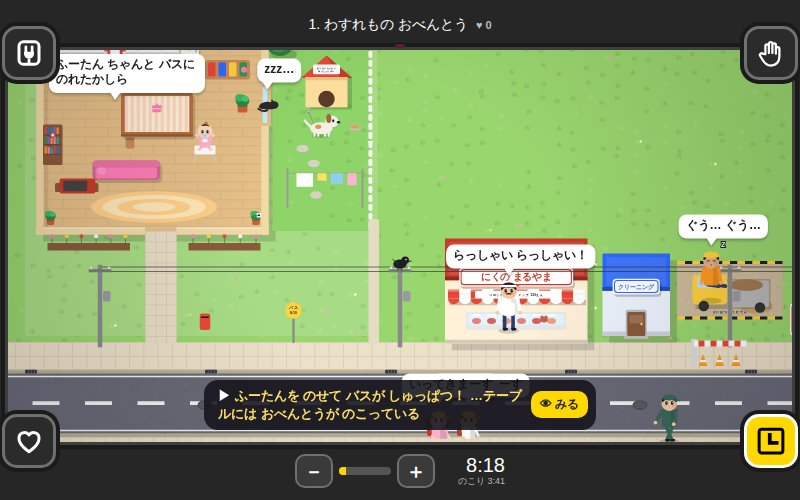
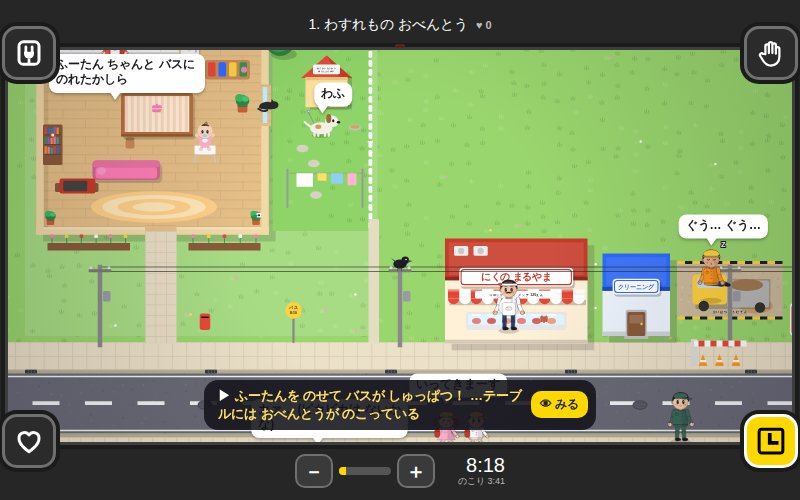
リモコロン: 人物グラフィックを描き直し（首・耳・鼻・まゆ・まつげ・大きな目、髪のボリューム、服の襟/ボタン/ポケット/帯、手と靴、前後の腕、輪郭と陰影）
Claude-Session: https://claude.ai/code/session_012ibAAMTNzg3GBPF3nzdM3h

diff --git a/futan-remocolon/index.html b/futan-remocolon/index.html
@@ -220,54 +220,115 @@ function walkerLook(i,yukata){const c=WCOL[i%7];return{h:56+(i*7)%10,skin:['#ffd
   hair:['short','long','bun','short','pig'][i%5],hairCol:['#2b1d22','#7a4a20','#a8502b','#d9d9e3'][i%4],hat:i%5===3?'hat':null,hatCol:WCOL[(i+2)%7],leg:['#1d1a24','#4a3a8a','#ffd9b8'][i%3],shoe:WCOL[(i+4)%7],bw:.28+(i%3)*.05};}
 function hasA(L,a){return L.acc&&L.acc.indexOf(a)>=0;}
 function drawPerson(e,P){
-  const L=e.look,H=L.h,kid=L.kid;
-  const legH=H*(kid?.25:.32),bodH=H*(kid?.31:.36),hr=H*(kid?.23:.17),bw=H*(L.bw||(kid?.36:.32));
-  const hipY=-legH,shY=-legH-bodH+hr*.15,hy=-legH-bodH-hr*.82;
+  const L=e.look,H=L.h,kid=!!L.kid;
+  const fem=L.fem!=null?L.fem:['long','pig','bun','bob'].includes(L.hair);
+  const hr=H*(kid?.215:.168),legH=H*(kid?.25:.35),tor=H*(kid?.29:.32),nk=H*(kid?.02:.035);
+  const bw=H*(L.bw||(kid?.34:.3));
+  const hipY=-legH,shY=hipY-tor,hy=shY-nk-hr*.86;
+  const ow=Math.max(.5,H*.012),OC='rgba(55,25,35,.38)';
+  const ol=()=>{X.lineWidth=ow;X.strokeStyle=OC;X.lineJoin='round';X.stroke();};
+  const fl=c=>{X.fillStyle=c;X.fill();ol();};
+  const E2=(x,y,rx,ry,c)=>{X.beginPath();X.ellipse(x,y,Math.max(.01,rx),Math.max(.01,ry),0,0,7);fl(c);};
+  const RB=(x,y,w,h,r,c)=>{X.beginPath();if(X.roundRect)X.roundRect(x,y,w,h,r);else X.rect(x,y,w,h);fl(c);};
+  const PL=(pts,c)=>{X.beginPath();X.moveTo(pts[0][0],pts[0][1]);for(let i=1;i<pts.length;i++)X.lineTo(pts[i][0],pts[i][1]);X.closePath();fl(c);};
+  const SM=(pts,c)=>{const n=pts.length;X.beginPath();X.moveTo((pts[n-1][0]+pts[0][0])/2,(pts[n-1][1]+pts[0][1])/2);for(let i=0;i<n;i++){const a=pts[i],b=pts[(i+1)%n];X.quadraticCurveTo(a[0],a[1],(a[0]+b[0])/2,(a[1]+b[1])/2);}X.closePath();fl(c);};
+  const LO=(x1,y1,x2,y2,c,w)=>{X.lineCap='round';X.beginPath();X.moveTo(x1,y1);X.lineTo(x2,y2);X.lineWidth=w+ow*2;X.strokeStyle=OC;X.stroke();X.beginPath();X.moveTo(x1,y1);X.lineTo(x2,y2);X.lineWidth=w;X.strokeStyle=c;X.stroke();};
+  const SHD=(top,bot,k)=>{X.save();X.clip();X.fillStyle=`rgba(40,10,40,${k||.13})`;X.fillRect(bw*.1,top-6,bw*1.2,bot-top+12);X.fillStyle='rgba(255,255,255,.14)';X.fillRect(-bw*1.2,top-6,bw*.7,bot-top+12);X.restore();};
   shadow(e.x,e.y+1,H*.22,H*.06);
   X.save();X.translate(e.x+(P.dx||0),e.y+(P.jy||0));X.rotate(P.rot||0);X.scale((e.dir||1)*(P.sx||1),1);
-  if(L.hair==='bob')ell(0,hy+hr*.1,hr*1.12,hr*1.05,L.hairCol);
-  if(L.hair==='long')blob([[-hr*1.1,hy],[-hr*1.15,hy+hr*1.6],[hr*1.15,hy+hr*1.6],[hr*1.1,hy],[0,hy-hr*1.1]],L.hairCol);
-  if(L.hair==='pig'){ell(-hr*1.15,hy+hr*.2,hr*.42,hr*.6,L.hairCol);ell(hr*1.15,hy+hr*.2,hr*.42,hr*.6,L.hairCol);}
-  const la=P.legA||0,lx=bw*.22;
-  if(P.sit){limb(-lx,hipY,-lx+legH*.7,hipY+2,L.leg,H*.075);limb(lx,hipY,lx+legH*.7,hipY+2,L.leg,H*.075);}
-  else{const f1=-lx+Math.sin(la)*legH,f2=lx-Math.sin(la)*legH;limb(-lx,hipY,f1,-H*.02,L.leg,H*.075);limb(lx,hipY,f2,-H*.02,L.leg,H*.075);
-    ell(f1+H*.02,-H*.018,H*.055,H*.03,L.shoe);ell(f2+H*.02,-H*.018,H*.055,H*.03,L.shoe);}
-  const top=-legH-bodH,bot=hipY+H*.02;
-  if(hasA(L,'rando'))rbox(-bw*.9,top+1,bw*.5,bodH*.75,3,'#c83a2a');
-  const shd=()=>{X.save();X.clip();X.fillStyle='rgba(0,0,0,.11)';X.fillRect(bw*.12,top-4,bw,bot-top+8);X.fillStyle='rgba(255,255,255,.12)';X.fillRect(-bw,top-4,bw*.75,4);X.restore();};
-  if(L.shape==='smock'){poly([[-bw*.42,top],[bw*.42,top],[bw*.62,bot],[-bw*.62,bot]],L.body);shd();blob([[-bw*.36,top-1],[0,top+bodH*.32],[bw*.36,top-1],[0,top+bodH*.08]],'#fff');}
-  else if(L.shape==='tri'){poly([[-bw*.3,top],[bw*.3,top],[bw*.7,bot],[-bw*.7,bot]],L.body);shd();}
-  else if(L.shape==='box'){rbox(-bw*.5,top,bw,bot-top,bw*.15,L.body);shd();}
-  else if(L.shape==='yukata'){poly([[-bw*.45,top],[bw*.45,top],[bw*.55,-H*.04],[-bw*.55,-H*.04]],L.body);shd();
-    for(let i=0;i<3;i++)ell(-bw*.2+i*bw*.22,top+bodH*.6+(i%2)*legH*.4,bw*.08,bw*.08,L.pat||'#fff');box(-bw*.48,top+bodH*.32,bw*.96,bodH*.2,L.obi||COL.yel);}
-  else if(L.shape==='happi'){rbox(-bw*.5,top,bw,bot-top,bw*.1,L.body);shd();box(-bw*.5,top+bodH*.55,bw,bodH*.15,'#fff');}
-  else{blob([[-bw*.45,top+2],[0,top-2],[bw*.45,top+2],[bw*.55,bot-3],[0,bot+2],[-bw*.55,bot-3]],L.body);shd();}
-  if(hasA(L,'apron'))rbox(-bw*.32,top+bodH*.3,bw*.64,bodH*.75,bw*.1,'#fff');
-  if(hasA(L,'tie'))poly([[0,top+1],[bw*.08,top+bodH*.45],[0,top+bodH*.6],[-bw*.08,top+bodH*.45]],COL.red);
-  if(P.baby){X.save();X.translate(0,top+bodH*.6);X.scale(.42,.42);drawBabyBody(P.babyMood||'n',e.t,1);X.restore();}
-  const sx=bw*.46,al=H*(kid?.27:.3);
-  const arm=(side,a,hand)=>{let hx,hy2;if(hand){hx=hand[0];hy2=hand[1];}else{hx=side*sx+Math.sin(a)*al*side;hy2=shY+Math.cos(a)*al;}
-    limb(side*sx,shY,hx,hy2,L.sleeve||L.body,H*.075);ell(hx,hy2,H*.042,H*.042,L.skin);};
-  arm(-1,P.aL==null?.18:P.aL,P.hL);arm(1,P.aR==null?.18:P.aR,P.hR);
-  ell(0,hy,hr,hr*1.02,L.skin);X.save();X.clip();X.fillStyle='rgba(150,60,40,.08)';X.fillRect(hr*.35,hy-hr*1.2,hr,hr*2.4);X.restore();
-  face(0,hy,hr,P.mood||'n',e.t+(e.seed||0));
-  const hc=L.hairCol;
-  if(L.hair==='bob'){blob([[-hr*1.05,hy+hr*.15],[-hr*.95,hy-hr*.75],[0,hy-hr*1.08],[hr*.95,hy-hr*.75],[hr*1.05,hy+hr*.15],[hr*.8,hy-hr*.3],[0,hy-hr*.42],[-hr*.8,hy-hr*.3]],hc);
-    dot(-hr*.85,hy-hr*.62,hr*.1,COL.red);dot(hr*.85,hy-hr*.62,hr*.1,COL.red);X.globalAlpha=.22;crv([[-hr*.55,hy-hr*.72],[-hr*.1,hy-hr*.93],[hr*.35,hy-hr*.82]],hr*.13,'#fff');X.globalAlpha=1;}
-  else if(L.hair==='bald'){ell(-hr*.92,hy-hr*.1,hr*.2,hr*.32,hc);ell(hr*.92,hy-hr*.1,hr*.2,hr*.32,hc);}
-  else if(L.hair==='bun'){blob([[-hr,hy-hr*.05],[-hr*.8,hy-hr*.8],[0,hy-hr*1.05],[hr*.8,hy-hr*.8],[hr,hy-hr*.05],[hr*.6,hy-hr*.5],[-hr*.6,hy-hr*.5]],hc);ell(0,hy-hr*1.2,hr*.38,hr*.32,hc);}
-  else if(L.hair){blob([[-hr*1.02,hy+hr*.1],[-hr*.85,hy-hr*.8],[0,hy-hr*1.08],[hr*.85,hy-hr*.8],[hr*1.02,hy+hr*.1],[hr*.5,hy-hr*.45],[0,hy-hr*.3],[-hr*.5,hy-hr*.45]],hc);}
-  if(L.hat==='yochien'){const c=L.hatCol;ell(0,hy-hr*.62,hr*1.3,hr*.26,c);blob([[-hr*.85,hy-hr*.6],[-hr*.7,hy-hr*1.15],[0,hy-hr*1.32],[hr*.7,hy-hr*1.15],[hr*.85,hy-hr*.6]],c);}
-  else if(L.hat==='cap'||L.hat==='police'){blob([[-hr*.95,hy-hr*.35],[-hr*.8,hy-hr*.95],[0,hy-hr*1.12],[hr*.8,hy-hr*.95],[hr*.95,hy-hr*.35]],L.hatCol);poly([[hr*.4,hy-hr*.45],[hr*1.45,hy-hr*.38],[hr*1.4,hy-hr*.22],[hr*.4,hy-hr*.3]],L.hat==='police'?INK:L.hatCol);if(L.hat==='police')star(0,hy-hr*.75,hr*.22,COL.yel);}
-  else if(L.hat==='hachi'){box(-hr*1.02,hy-hr*.7,hr*2.04,hr*.28,'#fff');ell(hr*1.1,hy-hr*.62,hr*.2,hr*.14,COL.red);}
-  else if(L.hat==='hat'){ell(0,hy-hr*.7,hr*1.35,hr*.22,L.hatCol);box(-hr*.7,hy-hr*1.4,hr*1.4,hr*.7,L.hatCol);}
-  else if(L.hat==='helmet'){blob([[-hr*1.05,hy-hr*.3],[-hr*.9,hy-hr*.95],[0,hy-hr*1.18],[hr*.9,hy-hr*.95],[hr*1.05,hy-hr*.3]],L.hatCol);}
-  else if(L.hat==='santa'){poly([[-hr*1.02,hy-hr*.52],[hr*1.02,hy-hr*.52],[hr*.25,hy-hr*1.75]],'#d82a2a');box(-hr*1.06,hy-hr*.72,hr*2.12,hr*.32,'#fff');dot(hr*.3,hy-hr*1.78,hr*.24,'#fff');}
-  else if(L.hat==='chef'){box(-hr*.75,hy-hr*.95,hr*1.5,hr*.35,'#fff');ell(-hr*.4,hy-hr*1.25,hr*.45,hr*.4,'#fff');ell(hr*.4,hy-hr*1.25,hr*.45,hr*.4,'#fff');ell(0,hy-hr*1.45,hr*.5,hr*.42,'#fff');}
-  if(hasA(L,'flower')){for(let i=0;i<5;i++){const a=i/5*6.28;ell(hr*.75+Math.cos(a)*hr*.2,hy-hr*.7+Math.sin(a)*hr*.2,hr*.15,hr*.15,COL.pink);}dot(hr*.75,hy-hr*.7,hr*.1,COL.yel);}
-  if(hasA(L,'mustache'))blob([[-hr*.45,hy+hr*.38],[0,hy+hr*.25],[hr*.45,hy+hr*.38],[hr*.2,hy+hr*.49],[0,hy+hr*.41],[-hr*.2,hy+hr*.49]],L.hair==='bald'?'#fff':INK);
-  if(hasA(L,'beard'))blob([[-hr*.95,hy+hr*.05],[0,hy+hr*.32],[hr*.95,hy+hr*.05],[hr*.7,hy+hr*1.05],[0,hy+hr*1.4],[-hr*.7,hy+hr*1.05]],'#fff');
-  if(hasA(L,'glasses')){X.lineWidth=hr*.07;X.strokeStyle=INK;X.strokeRect(-hr*.62,hy-hr*.2,hr*.5,hr*.38);X.strokeRect(hr*.12,hy-hr*.2,hr*.5,hr*.38);}
+  const hc=L.hairCol||'#2b1d22',sk=L.skin,skD=shade(sk,-.12),body=L.body,sl=L.sleeve||body;
+  // ---- うしろ がみ ----
+  if(L.hair==='bob')SM([[-hr*1.12,hy+hr*.55],[-hr*1.2,hy-hr*.3],[-hr*.7,hy-hr*1.12],[hr*.7,hy-hr*1.12],[hr*1.2,hy-hr*.3],[hr*1.12,hy+hr*.55],[0,hy+hr*.7]],hc);
+  if(L.hair==='long')SM([[-hr*1.12,hy-hr*.2],[-hr*1.25,hy+hr*1.1],[-hr*.9,hy+hr*1.9],[hr*.9,hy+hr*1.9],[hr*1.25,hy+hr*1.1],[hr*1.12,hy-hr*.2],[0,hy-hr*1.15]],hc);
+  if(L.hair==='pig'){for(const s of[-1,1]){SM([[s*hr*.95,hy-hr*.35],[s*hr*1.6,hy-hr*.15],[s*hr*1.7,hy+hr*.6],[s*hr*1.3,hy+hr*.9],[s*hr*1.05,hy+hr*.3]],hc);E2(s*hr*1.02,hy-hr*.3,hr*.13,hr*.13,COL.red);}}
+  if(L.hair==='bun')E2(0,hy-hr*1.15,hr*.42,hr*.36,hc);
+  // ---- うしろの うで ----
+  const sx=bw*.48,al=H*(kid?.27:.31),shoY=shY+hr*.12;
+  const arm=(side,a,hand)=>{const ax=side*sx;let ex,ey,hx,hy2;if(hand){hx=hand[0];hy2=hand[1];ex=(ax+hx)/2+side*al*.08;ey=(shoY+hy2)/2+al*.06;}
+      else{ex=ax+Math.sin(a)*al*.5*side;ey=shoY+Math.cos(a)*al*.5;const b=a+(a>1.2?-.15:.25);hx=ex+Math.sin(b)*al*.5*side;hy2=ey+Math.cos(b)*al*.5;}
+    const aw=H*(kid?.075:.068);LO(ax,shoY,ex,ey,sl,aw);LO(ex,ey,hx,hy2,L.short?sk:sl,aw*.92);if(!L.short){E2(hx-(hx-ex)*.12,hy2-(hy2-ey)*.12,aw*.5,aw*.42,shade(sl,-.1));}
+    E2(hx,hy2,H*.042,H*.04,sk);E2(hx+side*H*.03,hy2-H*.012,H*.016,H*.022,sk);};
+  arm(-1,P.aL==null?.18:P.aL,P.hL);
+  // ---- あし ----
+  const la=P.legA||0,lx=bw*.22,lw=H*(kid?.09:.08);const skirt=['tri','smock','yukata'].includes(L.shape);
+  const legC=L.leg||(skirt?sk:'#3a3a5a');
+  const foot=(fx,fy)=>{E2(fx+H*.025,fy-H*.012,H*.06,H*.032,L.shoe||INK);X.fillStyle='rgba(0,0,0,.25)';X.fillRect(fx-H*.03,fy+H*.008,H*.11,H*.012);};
+  if(P.sit){for(const s of[-1,1]){const hx=s*lx;LO(hx,hipY,hx+legH*.7,hipY+1,legC,lw);foot(hx+legH*.72,hipY+3);}}
+  else{for(const s of[-1,1]){const hx=s*lx,ang=s<0?la:-la,fx=hx+Math.sin(ang)*legH,kx=hx+Math.sin(ang)*legH*.5+(Math.abs(ang)>.1?H*.01:0);LO(hx,hipY,kx,hipY+legH*.5,legC,lw);LO(kx,hipY+legH*.5,fx,-H*.035,legC,lw*.88);
+      if(!skirt&&!L.short)E2(fx,-H*.05,lw*.55,lw*.3,shade(legC,-.12));foot(fx,-H*.02);}}
+  // ---- からだ ----
+  const top=shY,bot=hipY+H*.02;
+  if(L.shape==='smock'){PL([[-bw*.44,top],[bw*.44,top],[bw*.66,bot+H*.02],[-bw*.66,bot+H*.02]],body);SHD(top,bot);
+    SM([[-bw*.4,top-1],[-bw*.1,top+tor*.32],[0,top+tor*.2],[bw*.1,top+tor*.32],[bw*.4,top-1],[0,top+tor*.06]],'#fff');RB(-bw*.38,top+tor*.55,bw*.3,tor*.28,2,shade(body,.18));
+    if(hasA(L,'tag')||!hasA(L,'rando'))E2(bw*.22,top+tor*.42,bw*.09,bw*.09,'#ff7eb6');}
+  else if(L.shape==='tri'){PL([[-bw*.36,top],[bw*.36,top],[bw*.4,top+tor*.42],[bw*.74,bot+H*.03],[-bw*.74,bot+H*.03],[-bw*.4,top+tor*.42]],body);SHD(top,bot);
+    X.fillStyle=shade(body,-.15);X.fillRect(-bw*.4,top+tor*.4,bw*.8,tor*.07);for(let i=-2;i<=2;i++){X.fillStyle='rgba(0,0,0,.07)';X.fillRect(i*bw*.2,top+tor*.5,ow*1.2,tor*.55);}
+    if(fem)SM([[-bw*.22,top],[0,top+tor*.16],[bw*.22,top],[0,top+tor*.05]],shade(body,.25));}
+  else if(L.shape==='yukata'){PL([[-bw*.46,top],[bw*.46,top],[bw*.56,-H*.04],[-bw*.56,-H*.04]],body);SHD(top,-H*.04);
+    for(let i=0;i<6;i++)E2(-bw*.3+(i%3)*bw*.3,top+tor*.6+Math.floor(i/3)*legH*.45+(i%2)*4,bw*.09,bw*.09,L.pat||'#fff');
+    PL([[-bw*.3,top],[bw*.05,top+tor*.42],[-bw*.05,top+tor*.42],[-bw*.36,top+2]],'#fff');PL([[bw*.3,top],[-bw*.02,top+tor*.4],[bw*.1,top+tor*.42],[bw*.36,top+2]],shade(body,.1));
+    RB(-bw*.5,top+tor*.4,bw,tor*.22,2,L.obi||COL.yel);E2(-bw*.55,top+tor*.5,bw*.18,bw*.13,shade(L.obi||COL.yel,-.1));}
+  else if(L.shape==='happi'){RB(-bw*.52,top,bw*1.04,bot-top+H*.04,bw*.1,body);SHD(top,bot);X.fillStyle='#fff';X.fillRect(-bw*.14,top,bw*.08,bot-top);X.fillRect(bw*.06,top,bw*.08,bot-top);RB(-bw*.52,top+tor*.62,bw*1.04,tor*.14,1,'#fff');
+    for(let i=0;i<3;i++)E2(-bw*.34,top+tor*.15+i*tor*.16,bw*.04,bw*.04,'#fff');}
+  else if(L.shape==='box'){RB(-bw*.52,top,bw*1.04,bot-top+H*.02,bw*.18,body);SHD(top,bot);
+    if(hasA(L,'tie')){PL([[-bw*.2,top],[bw*.2,top],[0,top+tor*.42]],'#fff');PL([[0,top+tor*.06],[bw*.07,top+tor*.14],[bw*.05,top+tor*.55],[0,top+tor*.66],[-bw*.05,top+tor*.55],[-bw*.07,top+tor*.14]],COL.red);
+      PL([[-bw*.22,top],[-bw*.02,top+tor*.45],[-bw*.12,top+tor*.47],[-bw*.3,top+1]],shade(body,.12));PL([[bw*.22,top],[bw*.02,top+tor*.45],[bw*.12,top+tor*.47],[bw*.3,top+1]],shade(body,.12));}
+    else{SM([[-bw*.26,top],[0,top+tor*.12],[bw*.26,top],[0,top+tor*.02]],shade(body,-.12));for(let i=0;i<3;i++)E2(0,top+tor*.25+i*tor*.22,bw*.035,bw*.035,shade(body,.35));}
+    RB(-bw*.38,top+tor*.22,bw*.22,tor*.16,1.5,shade(body,-.06));X.fillStyle='rgba(0,0,0,.25)';X.fillRect(-bw*.52,bot-H*.035,bw*1.04,H*.025);}
+  else{SM([[-bw*.46,top+2],[0,top-2],[bw*.46,top+2],[bw*.56,bot-3],[0,bot+3],[-bw*.56,bot-3]],body);SHD(top,bot);
+    X.fillStyle=shade(body,-.15);X.fillRect(-bw*.5,bot-H*.04,bw,H*.03);SM([[-bw*.24,top],[0,top+tor*.1],[bw*.24,top],[0,top+tor*.03]],shade(body,-.2));}
+  if(hasA(L,'rando')){RB(-bw*.95,top+2,bw*.42,tor*.8,3,'#c83a2a');X.fillStyle='rgba(0,0,0,.2)';X.fillRect(-bw*.95,top+tor*.3,bw*.42,2);}
+  if(hasA(L,'apron')){RB(-bw*.34,top+tor*.3,bw*.68,tor*.85,bw*.1,'#fff');RB(-bw*.16,top+tor*.6,bw*.32,tor*.2,2,'#f0f0f0');X.fillStyle='#fff';X.fillRect(-bw*.3,top,bw*.08,tor*.32);X.fillRect(bw*.22,top,bw*.08,tor*.32);}
+  if(P.baby){X.save();X.translate(0,top+tor*.62);X.scale(H/150,H/150);drawBabyBody(P.babyMood||'n',e.t,1);X.restore();}
+  // ---- まえの うで ----
+  arm(1,P.aR==null?.18:P.aR,P.hR);
+  // ---- くび・あたま ----
+  RB(-hr*.22,shY-nk-hr*.25,hr*.44,nk+hr*.3,hr*.1,skD);
+  E2(-hr*.98,hy+hr*.1,hr*.18,hr*.24,sk);E2(-hr*.98,hy+hr*.1,hr*.09,hr*.13,skD);
+  E2(0,hy,hr,hr*1.02,sk);X.save();X.clip();X.fillStyle='rgba(150,60,40,.09)';X.fillRect(hr*.35,hy-hr*1.2,hr,hr*2.4);X.fillStyle='rgba(255,255,255,.12)';X.fillRect(-hr,hy-hr*1.2,hr*.45,hr*2.4);X.restore();
+  // かお
+  const mood=P.mood||'n',t=e.t+(e.seed||0),ex=hr*.36,ey=hy+hr*.06,ew=hr*.15,eh=hr*.25,blink=(t%3.7)<.12;
+  X.lineCap='round';
+  const arc=(pts,w,c)=>{X.beginPath();X.moveTo(pts[0][0],pts[0][1]);X.quadraticCurveTo(pts[1][0],pts[1][1],pts[2][0],pts[2][1]);X.lineWidth=w;X.strokeStyle=c||INK;X.stroke();};
+  if(mood==='happy'){for(const s of[-1,1])arc([[s*ex-ew*1.1,ey+eh*.25],[s*ex,ey-eh*.75],[s*ex+ew*1.1,ey+eh*.25]],hr*.1);}
+  else if(mood==='cry'){for(const s of[-1,1])arc([[s*ex-s*ew*1.1,ey-eh*.5],[s*ex+s*ew*1.1,ey],[s*ex-s*ew*1.1,ey+eh*.5]],hr*.1);}
+  else if(mood==='sleep'){for(const s of[-1,1])arc([[s*ex-ew,ey],[s*ex,ey+eh*.45],[s*ex+ew,ey]],hr*.09);}
+  else if(blink){for(const s of[-1,1]){X.beginPath();X.moveTo(s*ex-ew,ey);X.lineTo(s*ex+ew,ey);X.lineWidth=hr*.09;X.strokeStyle=INK;X.stroke();}}
+  else{const k=(mood==='surp'||mood==='angry')?1.15:1;for(const s of[-1,1]){X.beginPath();X.ellipse(s*ex,ey,ew*k,eh*k,0,0,7);X.fillStyle=INK;X.fill();dot(s*ex+ew*.3,ey-eh*.38,ew*.42,'#fff');dot(s*ex-ew*.35,ey+eh*.35,ew*.18,'#fff');
+      if(fem){X.beginPath();X.moveTo(s*ex+s*ew*.7,ey-eh*.75);X.lineTo(s*ex+s*ew*1.35,ey-eh*1.05);X.lineWidth=hr*.06;X.strokeStyle=INK;X.stroke();}}}
+  const bc=L.hair==='bald'?'#888':hc;
+  if(mood==='sad'||mood==='cry'){for(const s of[-1,1])arc([[s*ex-s*ew*1.3,ey-eh*1.45],[s*ex,ey-eh*1.7],[s*ex+s*ew*1.1,ey-eh*2.05]],hr*.07,bc);}
+  else if(mood==='angry'){for(const s of[-1,1])arc([[s*ex+s*ew*1.3,ey-eh*2.05],[s*ex,ey-eh*1.75],[s*ex-s*ew*1.1,ey-eh*1.35]],hr*.08,bc);}
+  else{for(const s of[-1,1])arc([[s*ex-ew*1.1,ey-eh*1.55],[s*ex,ey-eh*1.85],[s*ex+ew*1.1,ey-eh*1.55]],hr*.06,bc);}
+  X.globalAlpha=.42;E2(-ex*1.45,ey+hr*.34,hr*.15,hr*.09,'#ff7a90');E2(ex*1.45,ey+hr*.34,hr*.15,hr*.09,'#ff7a90');X.globalAlpha=1;
+  X.beginPath();X.ellipse(hr*.06,ey+hr*.28,hr*.07,hr*.05,0,0,7);X.fillStyle=shade(sk,-.2);X.fill();
+  const my=hy+hr*.56;const lip=fem?'#e0506a':'#c84a5a';
+  if(mood==='happy'){X.beginPath();X.moveTo(-hr*.2,my-hr*.03);X.quadraticCurveTo(0,my+hr*.3,hr*.2,my-hr*.03);X.closePath();X.fillStyle='#b82a40';X.fill();X.beginPath();X.ellipse(0,my+hr*.1,hr*.08,hr*.05,0,0,7);X.fillStyle='#ff8a9a';X.fill();}
+  else if(mood==='cry'){X.beginPath();X.ellipse(0,my+hr*.04,hr*.16,hr*.13,0,0,7);X.fillStyle='#a82038';X.fill();for(const s of[-1,1]){const k=(t*1.6+(s>0?.5:0))%1;E2(s*ex,ey+eh+k*hr*.75,hr*.06,hr*.09,'#7cd0ff');}}
+  else if(mood==='sad')arc([[-hr*.12,my+hr*.05],[0,my-hr*.05],[hr*.12,my+hr*.05]],hr*.06,lip);
+  else if(mood==='surp'||mood==='sleep'){X.beginPath();X.ellipse(0,my+hr*.03,hr*.07,hr*.09,0,0,7);X.fillStyle='#a82038';X.fill();}
+  else if(mood==='angry'){X.beginPath();X.moveTo(-hr*.14,my+hr*.04);X.lineTo(hr*.14,my+hr*.04);X.lineWidth=hr*.07;X.strokeStyle=lip;X.stroke();}
+  else arc([[-hr*.12,my],[0,my+hr*.09],[hr*.12,my]],hr*.065,lip);
+  // まえがみ
+  if(L.hair==='bob'){SM([[-hr*1.08,hy+hr*.25],[-hr*1.0,hy-hr*.75],[-hr*.4,hy-hr*1.1],[hr*.4,hy-hr*1.1],[hr*1.0,hy-hr*.75],[hr*1.08,hy+hr*.25],[hr*.85,hy-hr*.32],[hr*.3,hy-hr*.4],[0,hy-hr*.36],[-hr*.3,hy-hr*.4],[-hr*.85,hy-hr*.32]],hc);
+    E2(-hr*.86,hy-hr*.6,hr*.1,hr*.1,COL.red);E2(hr*.86,hy-hr*.6,hr*.1,hr*.1,COL.red);}
+  else if(L.hair==='long'||L.hair==='pig'){SM([[-hr*1.06,hy+hr*.3],[-hr*.95,hy-hr*.8],[-hr*.3,hy-hr*1.12],[hr*.3,hy-hr*1.12],[hr*.95,hy-hr*.8],[hr*1.06,hy+hr*.3],[hr*.8,hy-hr*.2],[hr*.2,hy-hr*.55],[0,hy-hr*.75],[-hr*.2,hy-hr*.55],[-hr*.8,hy-hr*.2]],hc);}
+  else if(L.hair==='bun'){SM([[-hr*1.02,hy+hr*.05],[-hr*.9,hy-hr*.8],[0,hy-hr*1.08],[hr*.9,hy-hr*.8],[hr*1.02,hy+hr*.05],[hr*.7,hy-hr*.45],[0,hy-hr*.62],[-hr*.7,hy-hr*.45]],hc);}
+  else if(L.hair==='bald'){SM([[-hr*1.04,hy+hr*.25],[-hr*.98,hy-hr*.35],[-hr*.7,hy-hr*.2],[-hr*.78,hy+hr*.3]],hc);SM([[hr*1.04,hy+hr*.25],[hr*.98,hy-hr*.35],[hr*.7,hy-hr*.2],[hr*.78,hy+hr*.3]],hc);X.globalAlpha=.3;E2(-hr*.3,hy-hr*.6,hr*.25,hr*.15,'#fff');X.globalAlpha=1;}
+  else if(L.hair){SM([[-hr*1.05,hy+hr*.1],[-hr*1.02,hy-hr*.6],[-hr*.6,hy-hr*1.12],[hr*.2,hy-hr*1.2],[hr*.9,hy-hr*.95],[hr*1.08,hy-hr*.3],[hr*1.04,hy+hr*.1],[hr*.88,hy-hr*.38],[hr*.55,hy-hr*.5],[hr*.25,hy-hr*.38],[-hr*.2,hy-hr*.55],[-hr*.6,hy-hr*.42],[-hr*.88,hy-hr*.3]],hc);}
+  if(L.hair&&L.hair!=='bald'){X.globalAlpha=.28;arc([[-hr*.55,hy-hr*.78],[-hr*.1,hy-hr*.98],[hr*.4,hy-hr*.85]],hr*.12,'#fff');X.globalAlpha=1;}
+  // ぼうし
+  if(L.hat==='yochien'){const c=L.hatCol;E2(0,hy-hr*.6,hr*1.35,hr*.28,c);SM([[-hr*.88,hy-hr*.6],[-hr*.74,hy-hr*1.18],[0,hy-hr*1.36],[hr*.74,hy-hr*1.18],[hr*.88,hy-hr*.6]],c);X.fillStyle=shade(c,-.2);X.fillRect(-hr*.86,hy-hr*.78,hr*1.72,hr*.1);}
+  else if(L.hat==='cap'||L.hat==='police'){SM([[-hr*.98,hy-hr*.38],[-hr*.84,hy-hr*.98],[0,hy-hr*1.16],[hr*.84,hy-hr*.98],[hr*.98,hy-hr*.38]],L.hatCol);PL([[hr*.35,hy-hr*.48],[hr*1.5,hy-hr*.4],[hr*1.42,hy-hr*.24],[hr*.35,hy-hr*.32]],L.hat==='police'?INK:shade(L.hatCol,-.15));if(L.hat==='police')star(0,hy-hr*.78,hr*.22,COL.yel);else E2(0,hy-hr*1.14,hr*.1,hr*.06,shade(L.hatCol,-.2));}
+  else if(L.hat==='hachi'){RB(-hr*1.04,hy-hr*.72,hr*2.08,hr*.3,hr*.1,'#fff');E2(-hr*1.1,hy-hr*.62,hr*.22,hr*.15,COL.red);}
+  else if(L.hat==='hat'){E2(0,hy-hr*.72,hr*1.4,hr*.24,L.hatCol);RB(-hr*.72,hy-hr*1.45,hr*1.44,hr*.76,hr*.15,L.hatCol);X.fillStyle=COL.red;X.fillRect(-hr*.72,hy-hr*.92,hr*1.44,hr*.14);}
+  else if(L.hat==='helmet'){SM([[-hr*1.08,hy-hr*.3],[-hr*.95,hy-hr*.98],[0,hy-hr*1.22],[hr*.95,hy-hr*.98],[hr*1.08,hy-hr*.3]],L.hatCol);RB(-hr*1.14,hy-hr*.38,hr*2.28,hr*.14,hr*.06,shade(L.hatCol,-.15));}
+  else if(L.hat==='chef'){RB(-hr*.78,hy-hr*.98,hr*1.56,hr*.38,2,'#fff');E2(-hr*.42,hy-hr*1.28,hr*.46,hr*.42,'#fff');E2(hr*.42,hy-hr*1.28,hr*.46,hr*.42,'#fff');E2(0,hy-hr*1.5,hr*.52,hr*.44,'#fff');}
+  else if(L.hat==='santa'){PL([[-hr*1.02,hy-hr*.52],[hr*1.02,hy-hr*.52],[hr*.25,hy-hr*1.75]],'#d82a2a');RB(-hr*1.08,hy-hr*.74,hr*2.16,hr*.34,hr*.15,'#fff');E2(hr*.3,hy-hr*1.78,hr*.24,hr*.24,'#fff');}
+  if(hasA(L,'flower')){for(let i=0;i<5;i++){const a=i/5*6.28;E2(hr*.75+Math.cos(a)*hr*.2,hy-hr*.7+Math.sin(a)*hr*.2,hr*.15,hr*.15,COL.pink);}E2(hr*.75,hy-hr*.7,hr*.1,hr*.1,COL.yel);}
+  if(hasA(L,'mustache'))SM([[-hr*.45,hy+hr*.42],[0,hy+hr*.3],[hr*.45,hy+hr*.42],[hr*.2,hy+hr*.52],[0,hy+hr*.44],[-hr*.2,hy+hr*.52]],L.hair==='bald'?'#fff':INK);
+  if(hasA(L,'beard'))SM([[-hr*.98,hy+hr*.05],[0,hy+hr*.36],[hr*.98,hy+hr*.05],[hr*.72,hy+hr*1.08],[0,hy+hr*1.42],[-hr*.72,hy+hr*1.08]],'#fff');
+  if(hasA(L,'glasses')){X.lineWidth=hr*.08;X.strokeStyle='#2a2a3a';for(const s of[-1,1]){X.beginPath();X.ellipse(s*ex,ey,ew*2,eh*1.1,0,0,7);X.stroke();}X.beginPath();X.moveTo(-ex+ew*2,ey);X.lineTo(ex-ew*2,ey);X.stroke();}
   if(P.glow){X.save();X.shadowColor='#7fffd0';X.shadowBlur=12;X.beginPath();X.ellipse(0,hy-hr*.95,hr*.9,hr*.3,0,0,7);X.lineWidth=3;X.strokeStyle='#7fffd0';X.stroke();X.restore();}
   X.restore();
 }
